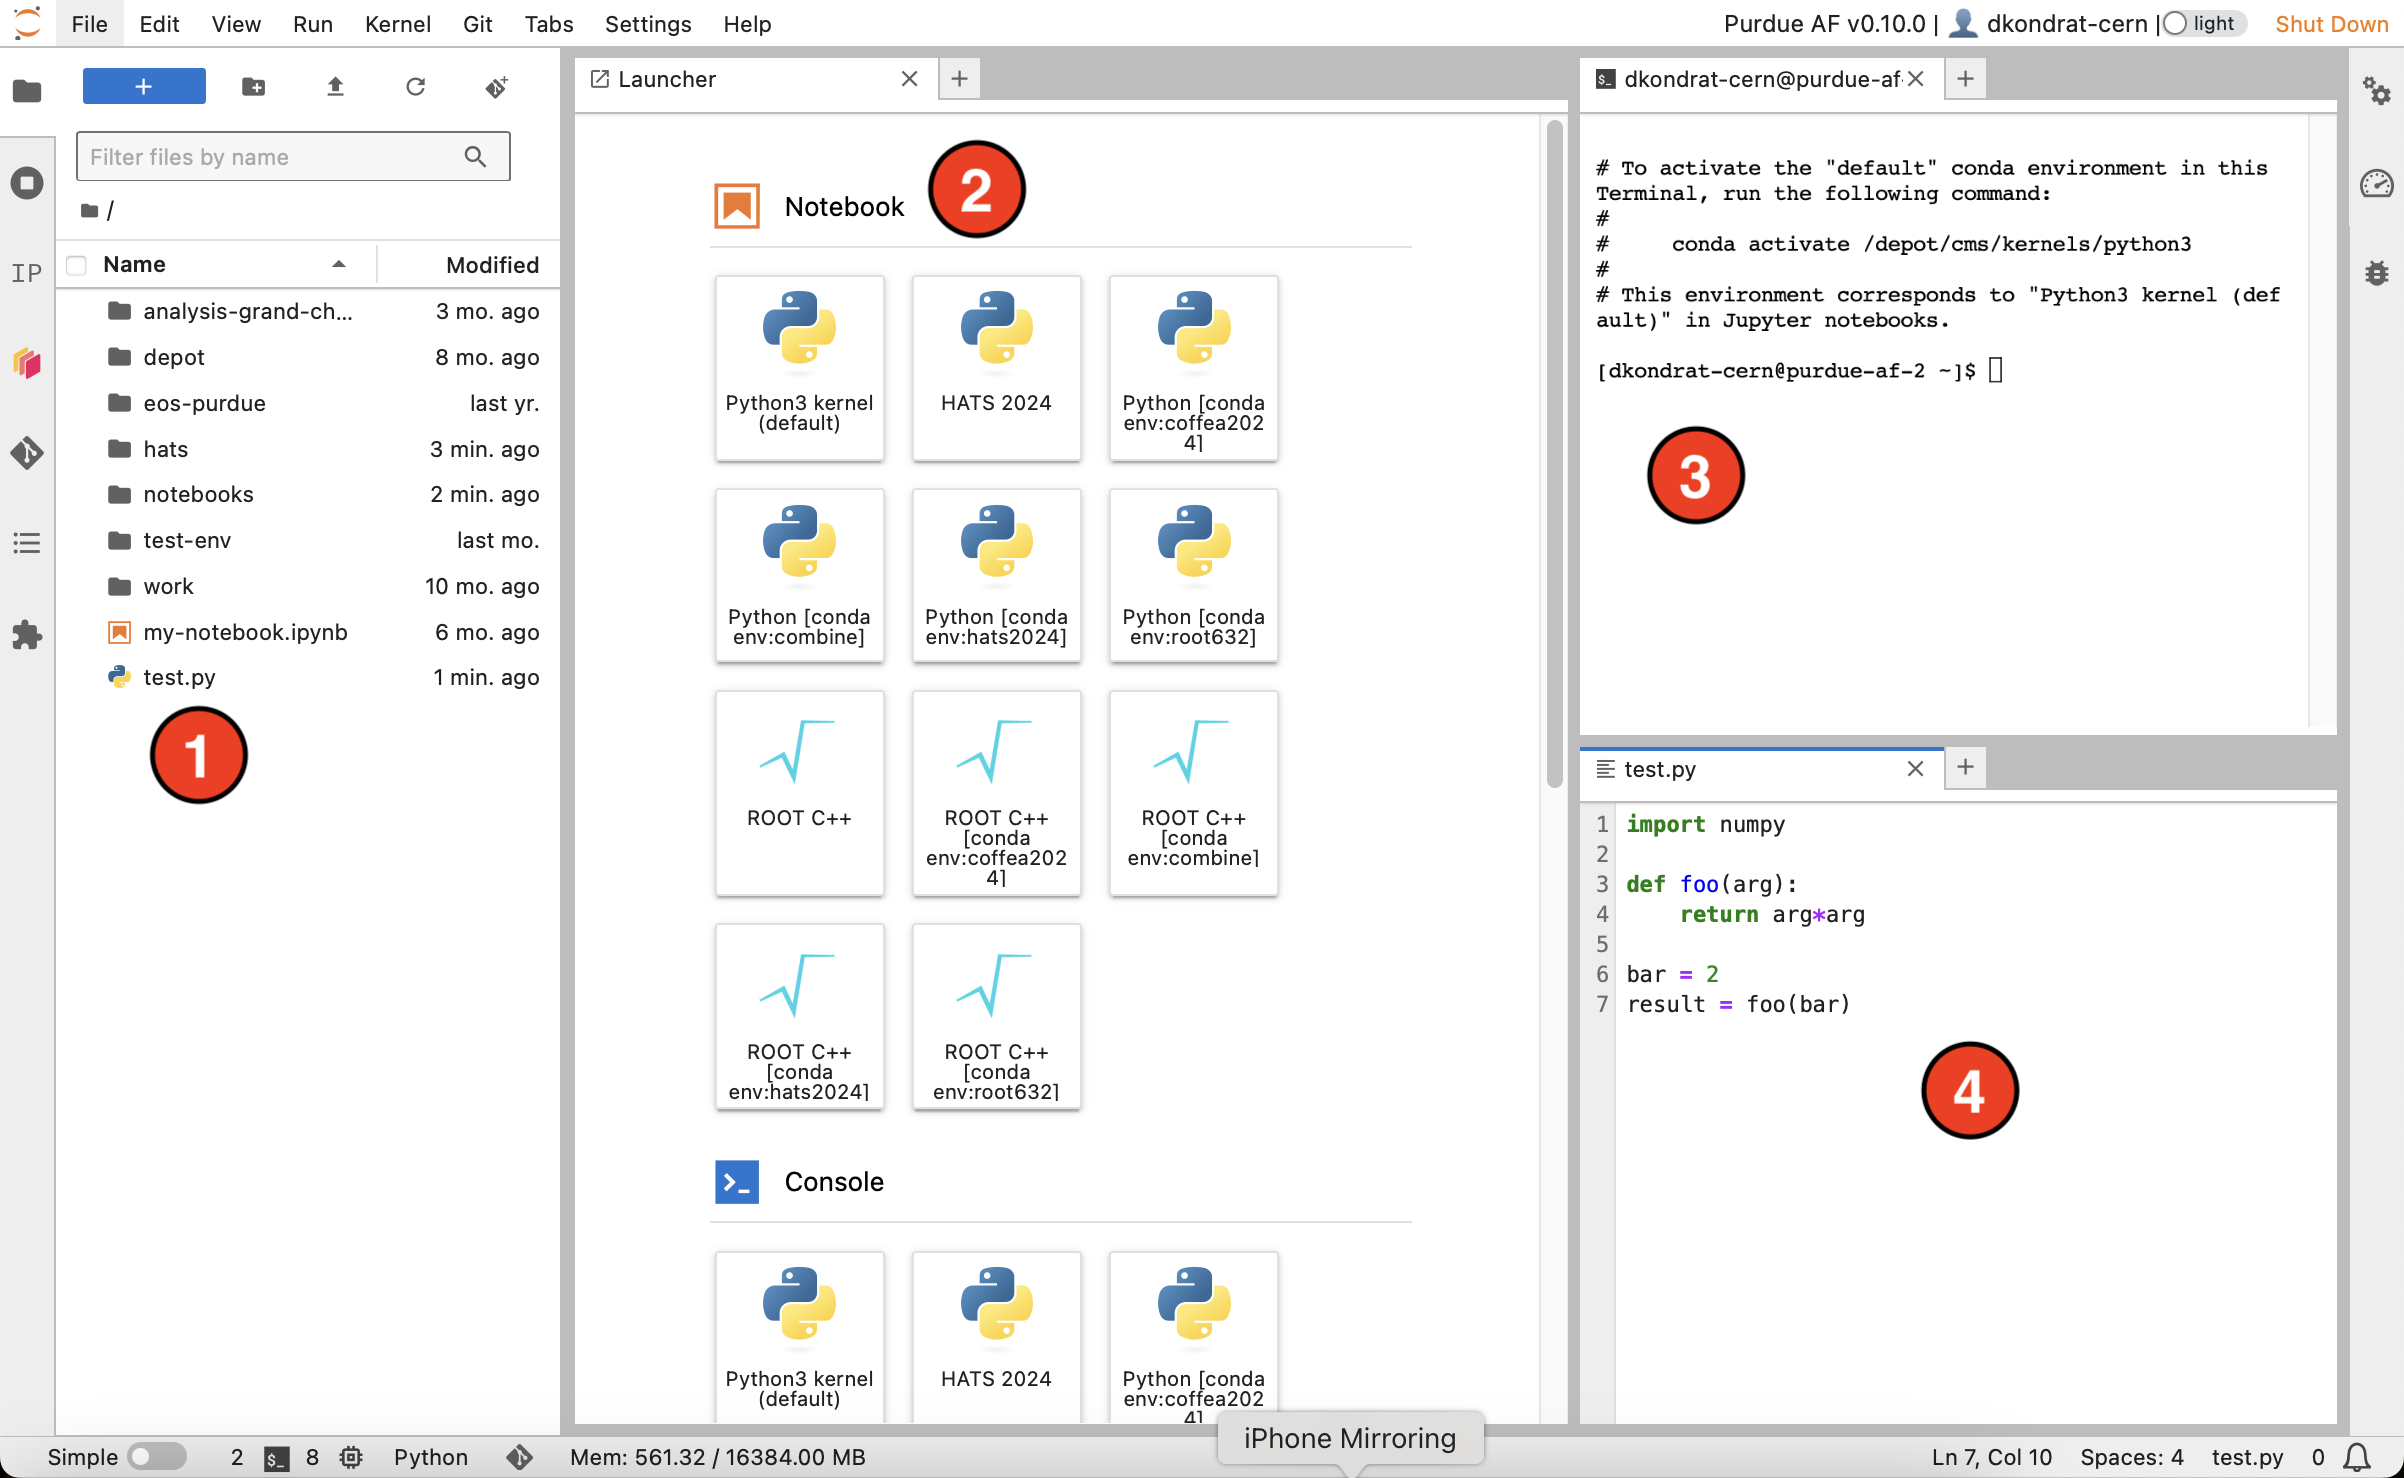
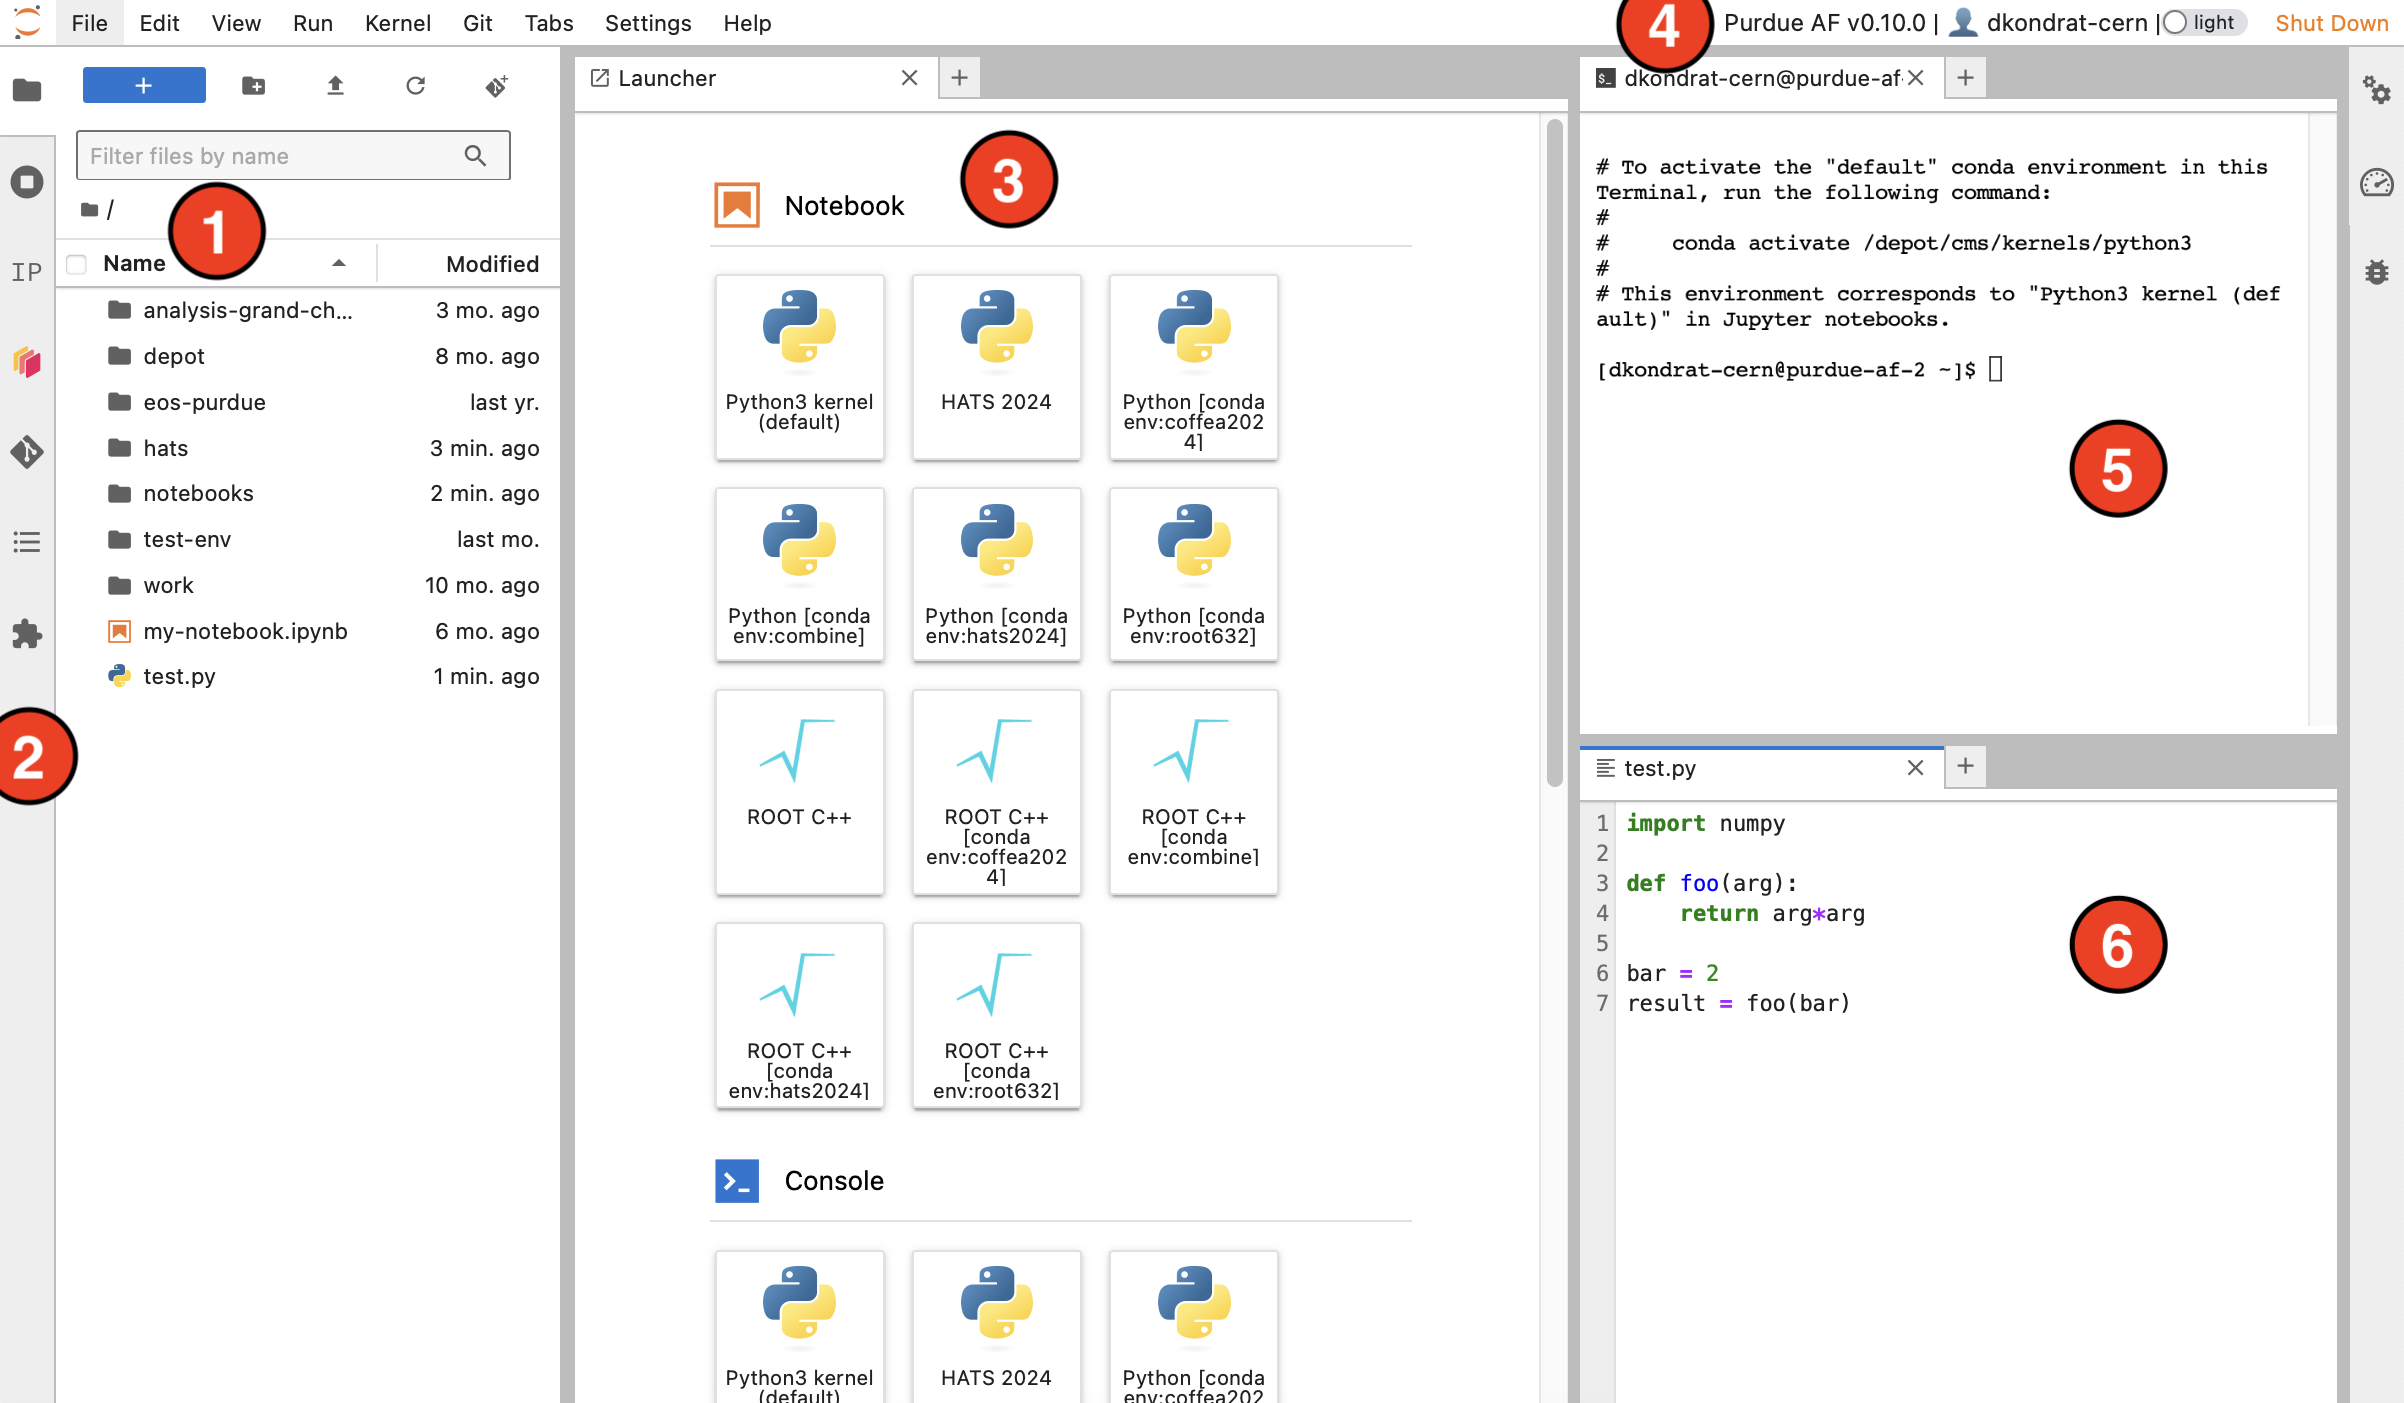
update docs

diff --git a/docs/source/doc-interface-1.rst b/docs/source/doc-interface-1.rst
@@ -10,17 +10,18 @@ The screenshot below shows the main elements of the interface:
    :width: 900
    :align: center
 
-#. File browser - your home directory with symlinks to different storage volumes (Depot, CVMFS, /work/, etc. - learn more here).
-#. Launcher - features buttons to create Python and ROOT C++ notebooks with different Conda environments, open terminals, create new text files, etc. Launcher window can be opened by clicking the `+` button.
-#. Terminal - standard Bash terminal, useful for any cases that require a command line interface, such as `voms-proxy-init`. You can also activate Conda environments here, run shell or Python scripts, use ROOT console, etc.
-#. File editor - simple IDE with syntax highlight for most common programming languages.
+#. **File browser** - your home directory with symlinks to different storage volumes (Depot, CVMFS, /work/, etc. - learn more here).
+#. **Exstensions** - left sidebar contains useful extesions: an interactive Dask Gateway interface, and a Git extension for interactive work with GitHub or GitLab repositories.
+#. **Launcher** - features buttons to create Python and ROOT C++ notebooks with different Conda environments, open terminals, create new text files, etc. Launcher window can be opened by clicking the `+` button.
+#. **Top bar** - contains Purdue AF release version, your username, dark theme switch, and the shutdown button.
+#. **Terminal** - standard Bash terminal, useful for any cases that require a command line interface, such as `voms-proxy-init`. You can also activate Conda environments here, run shell or Python scripts, use ROOT console, etc.
+#. **File editor** - simple IDE with syntax highlight for most common programming languages.
 
 .. note::
 
-   Windows with terminals, editors, etc., can be rearranged; the layout is saved even if you close the session.
+   Windows with terminals, editors, etc., can be rearranged.
+   The window layout is preserved if you shut down and restart your session.
 
-Extensions
------------
 
 Python code development
 ------------------------
